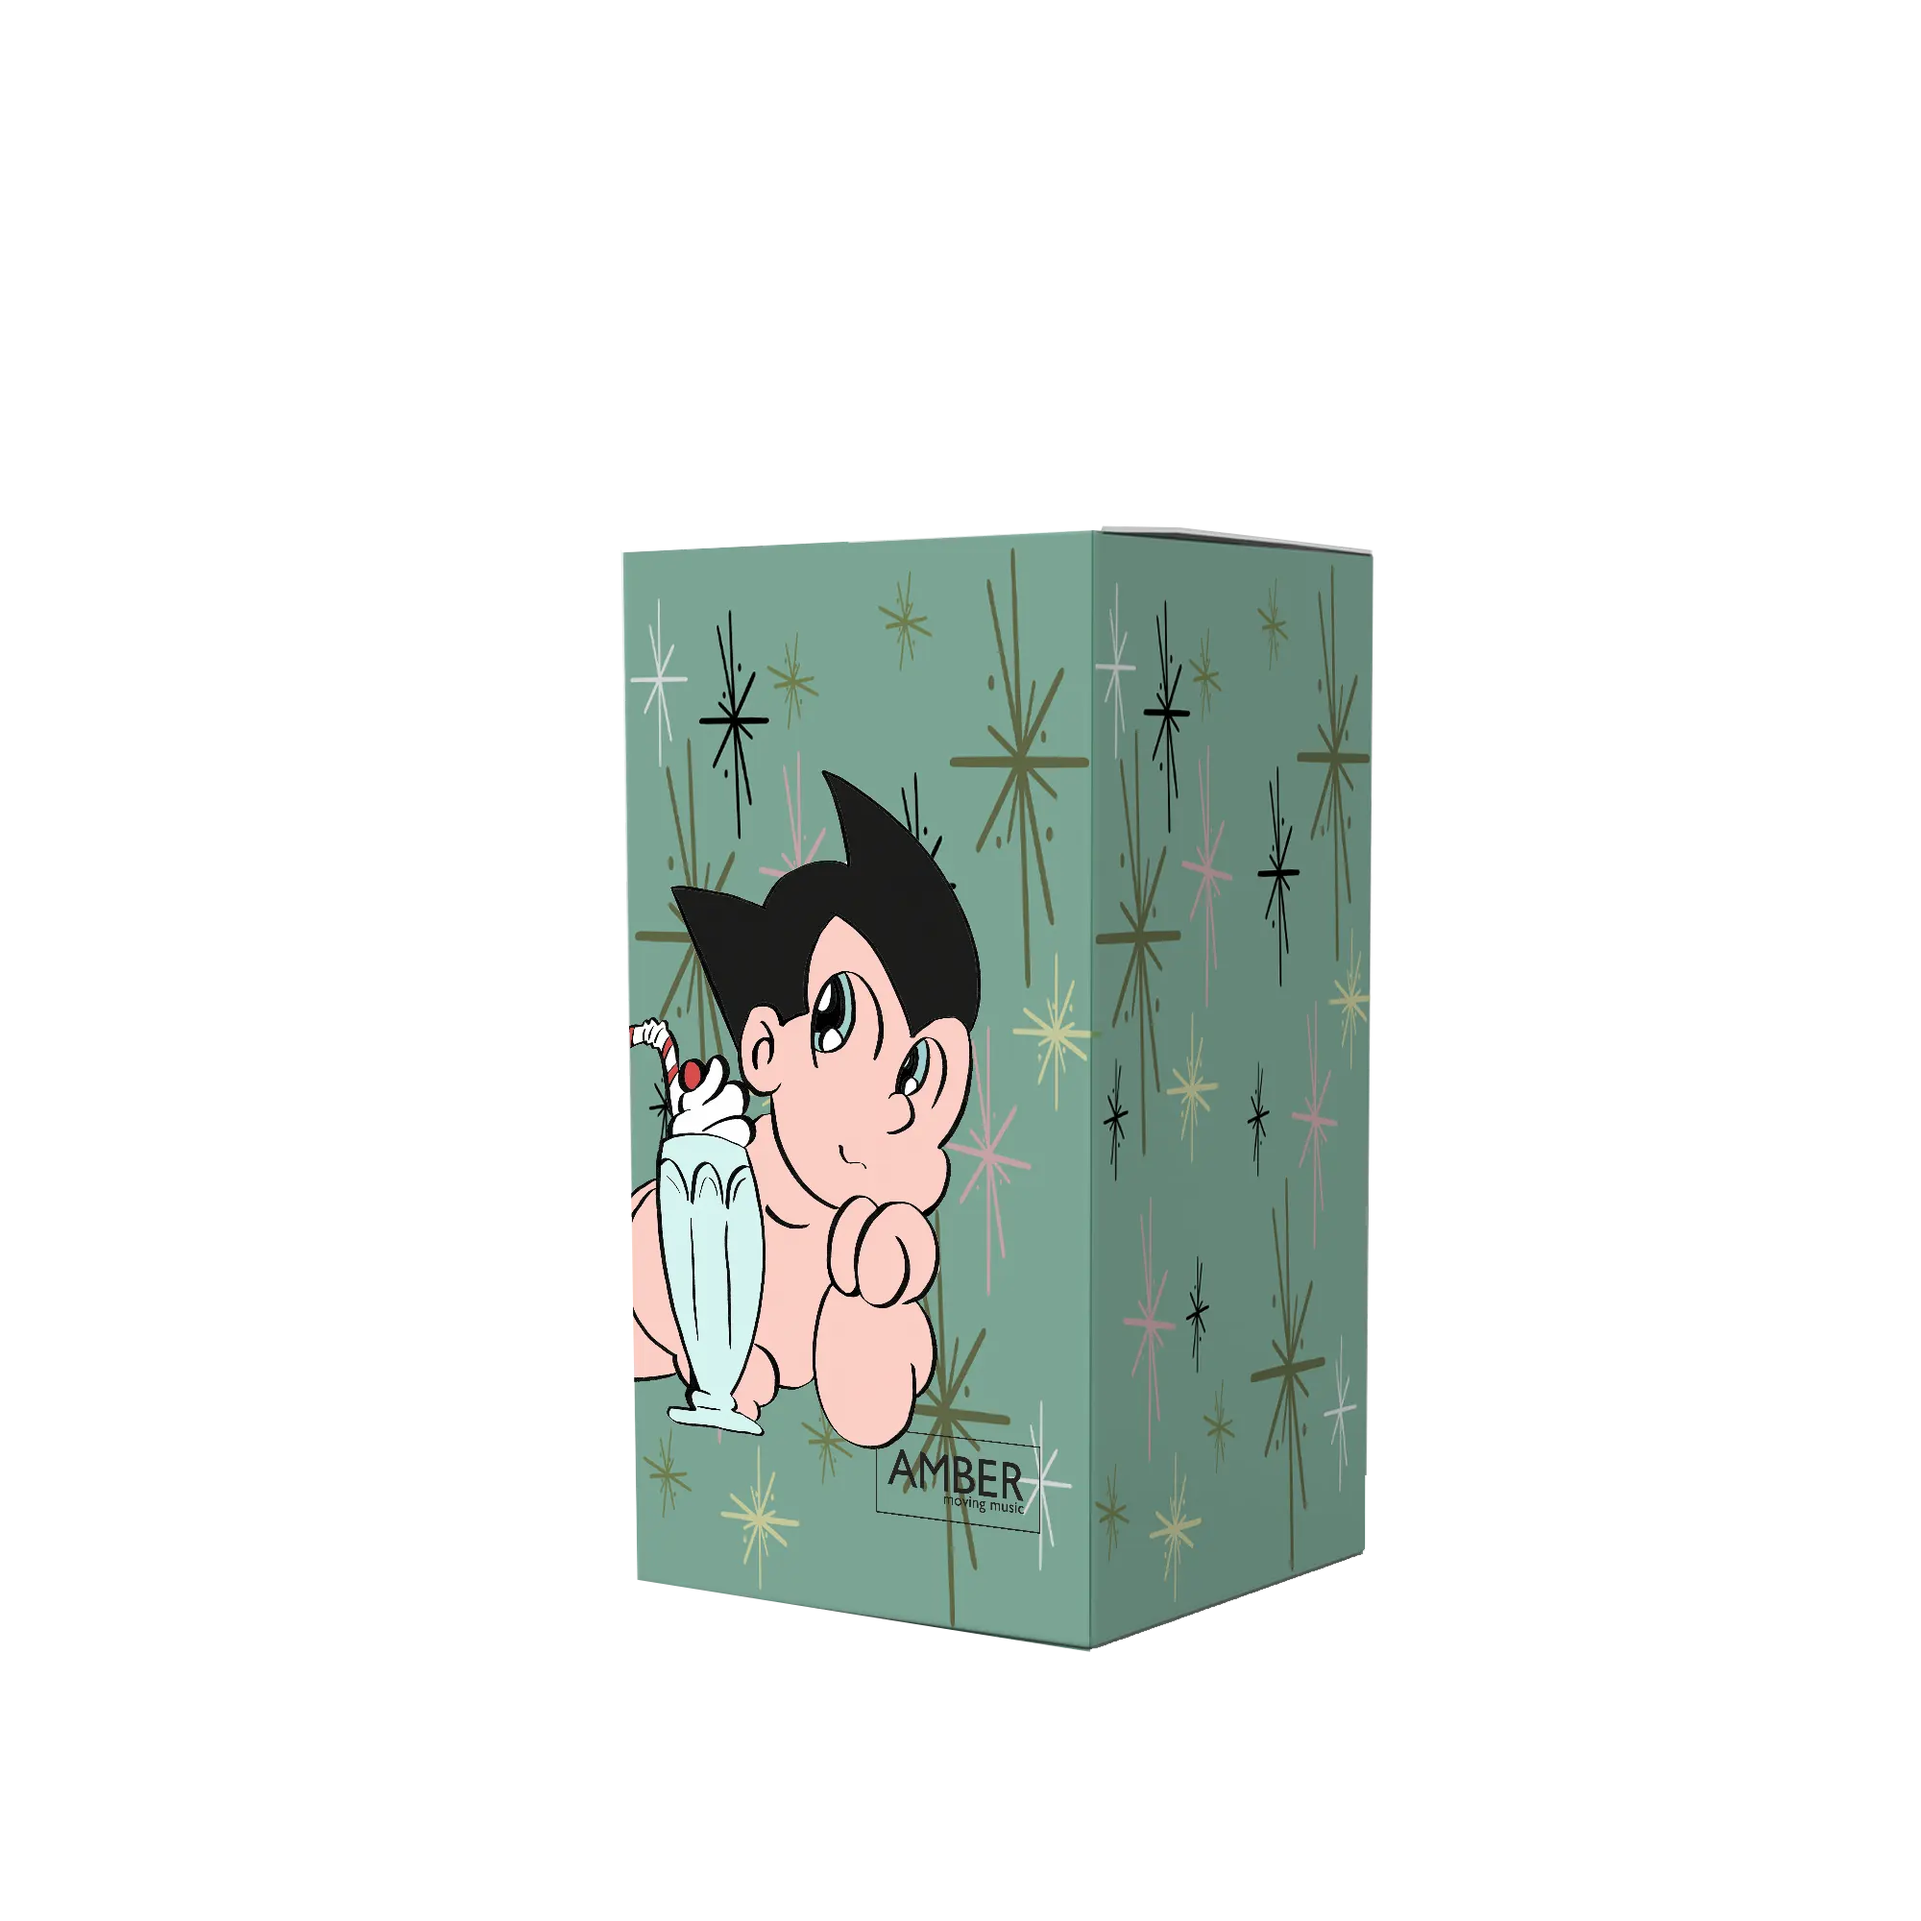
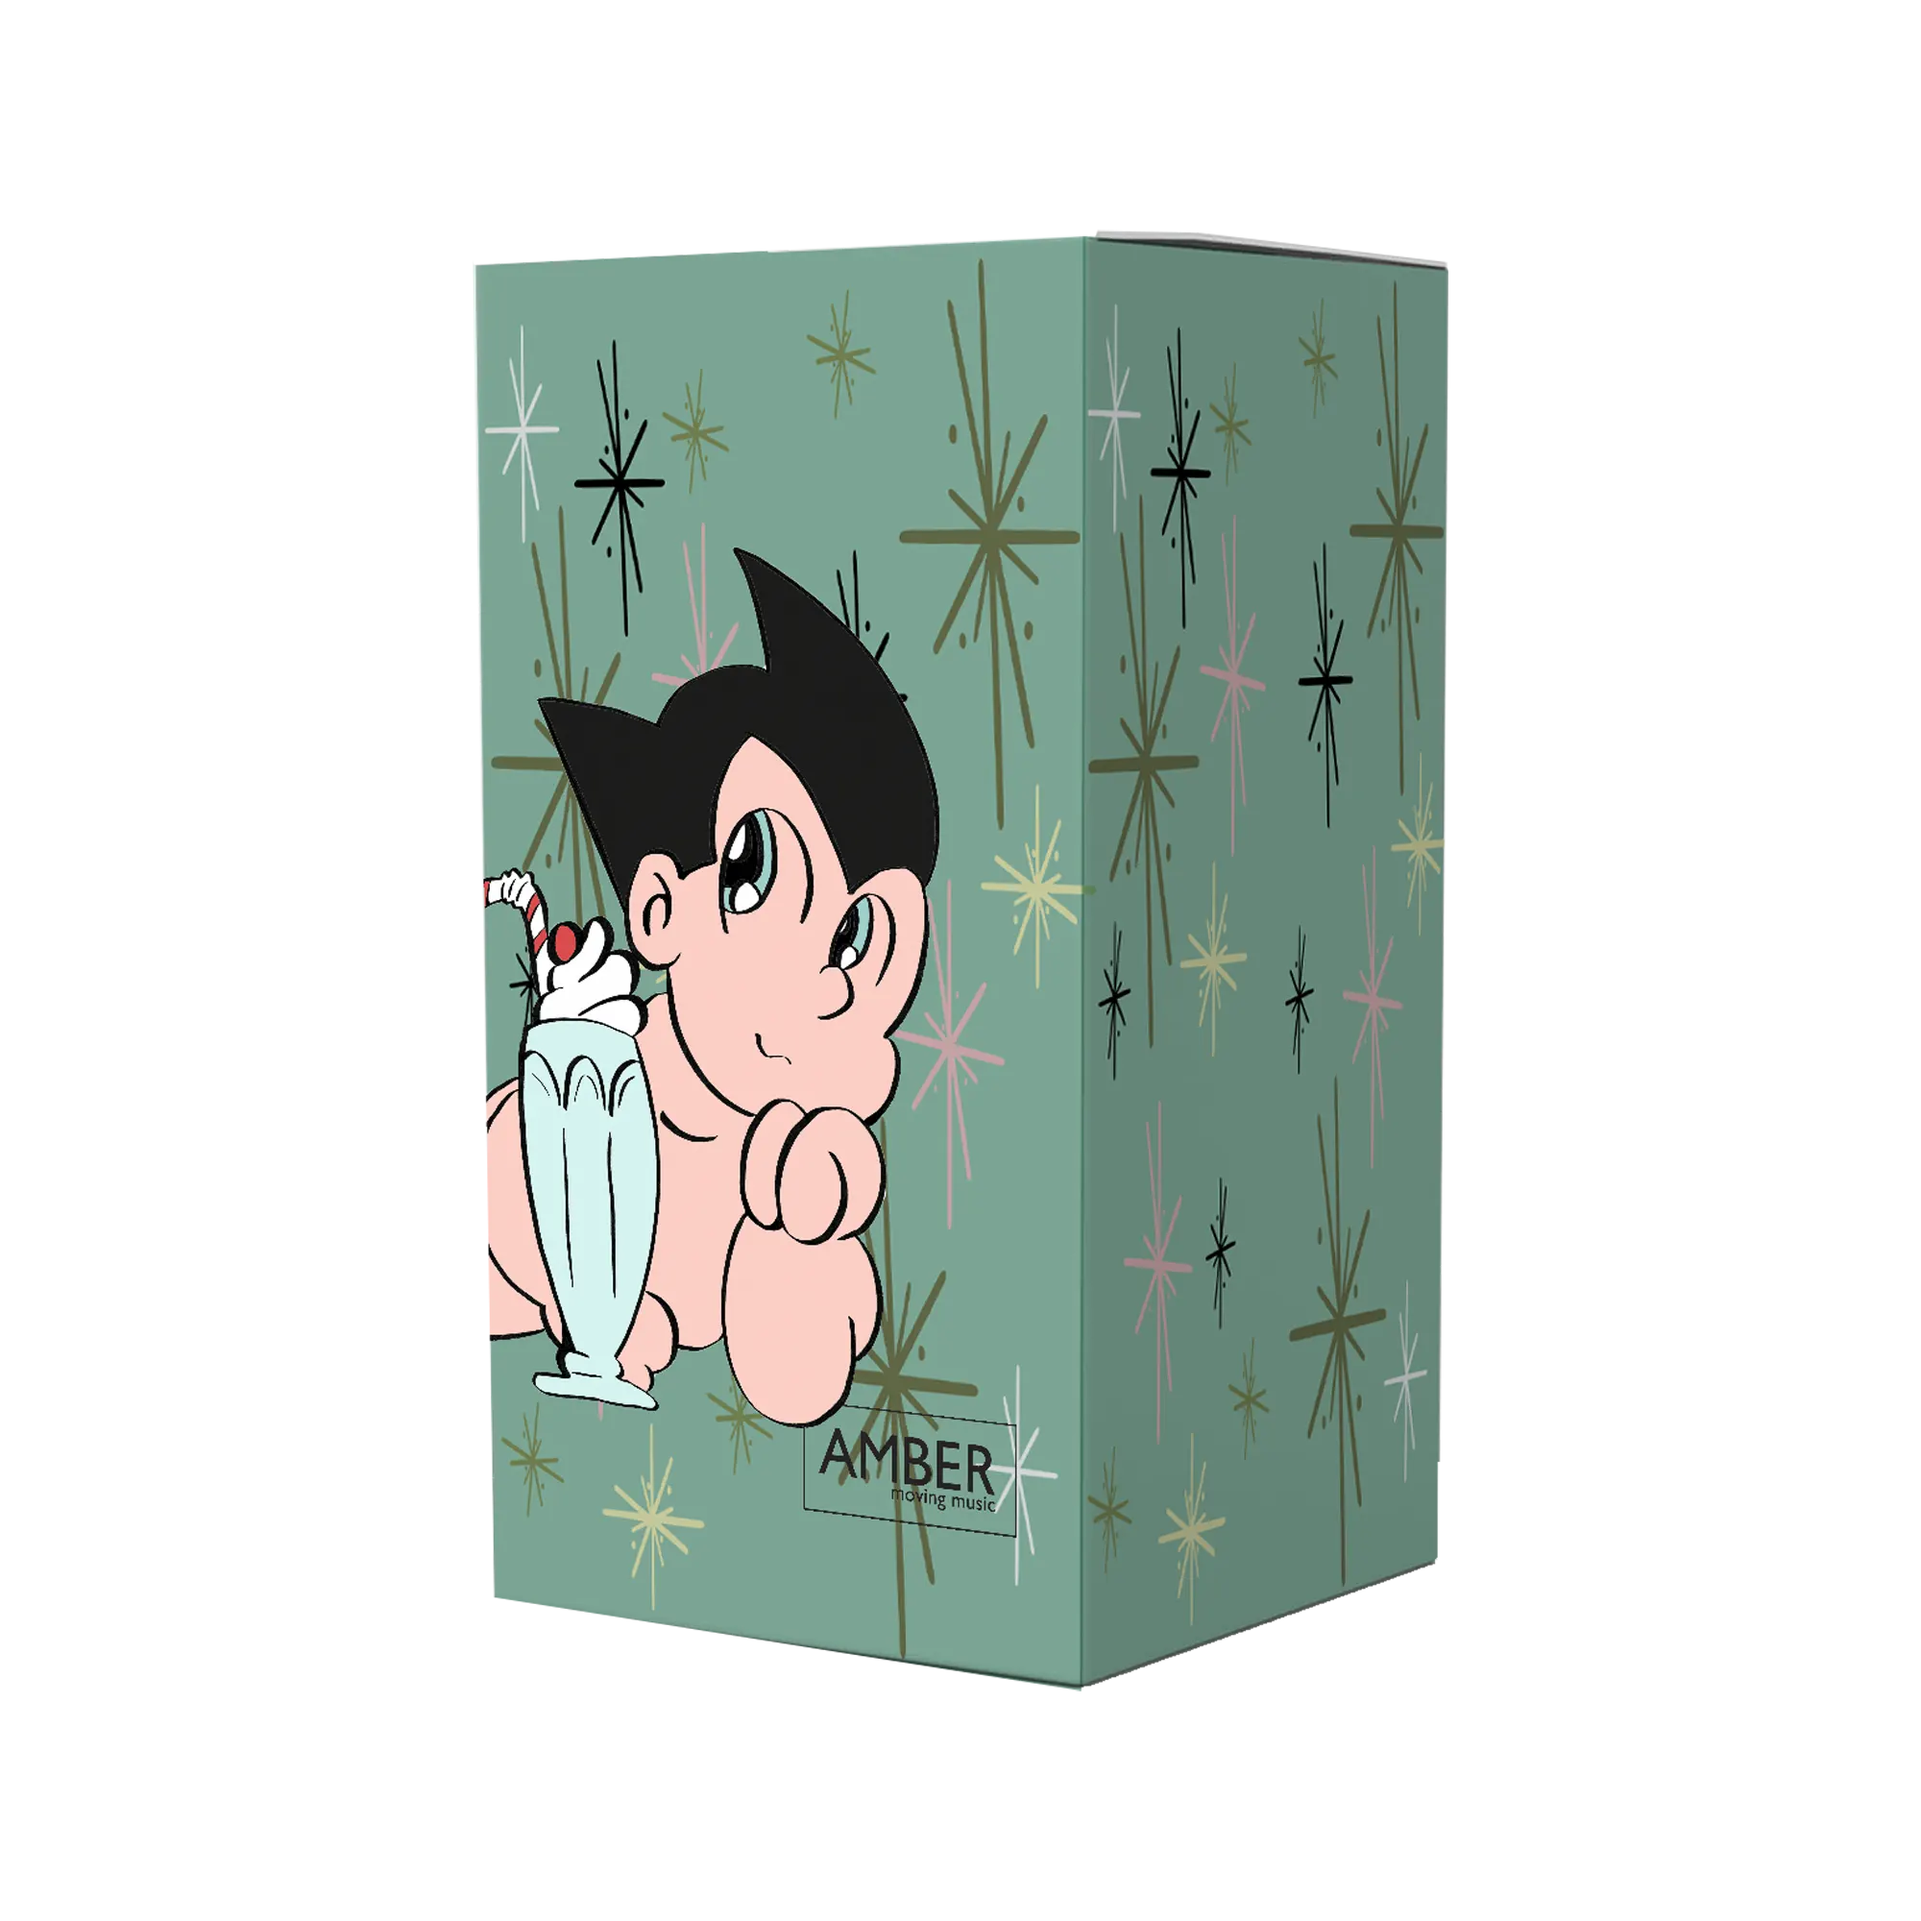
ajout d'image mockup à l'article oscar

Changed region(s): [[0.248, 0.093, 0.775, 0.899]]

diff --git a/css/styles.css b/css/styles.css
@@ -169,10 +169,11 @@ header h1 {
   display: flex;
   flex-direction: column;
   align-items: center;
+  justify-content: center;
 }
 
 .astro-product img {
-  height: 400px;
+  width: 500px;
   
 }
 
@@ -352,8 +353,16 @@ header h1 {
   right: 20px;
 }
 
-.seventy-product {
+.oscar-product {
   margin: 0 38px;
+  display: flex;
+  flex-direction: column;
+  justify-content: center;
+  align-items: center;
+}
+
+.oscar-product img {
+  width: 400px;
 }
 
 .navigate-seventy {

diff --git a/seventy.html b/seventy.html
@@ -34,6 +34,7 @@
       </article>
       <h1 id="buying">Product</h1>
       <article class="oscar-product">
+        <img src="img/oscar_mockup.webp" alt="boîte avec oscar">
         <div class="seventy-button buy-oscar">Buy decade</div>
       </article>
       <nav class="navigate-seventy">
